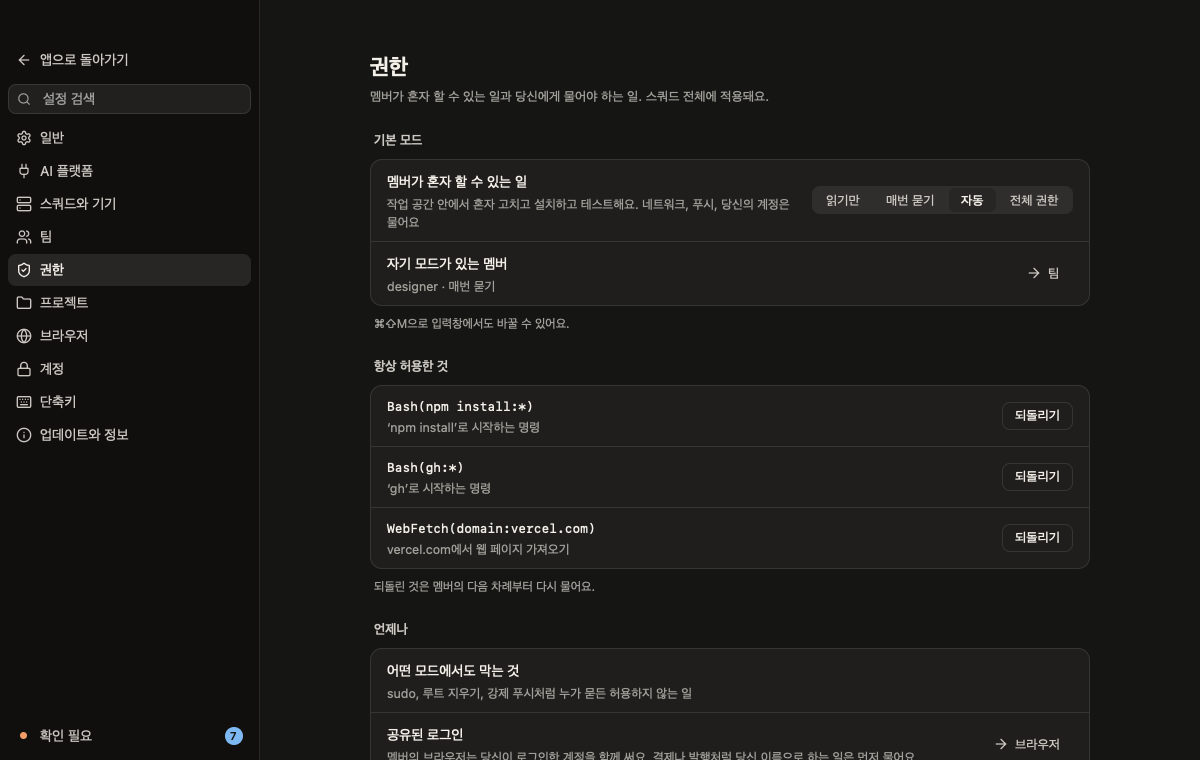
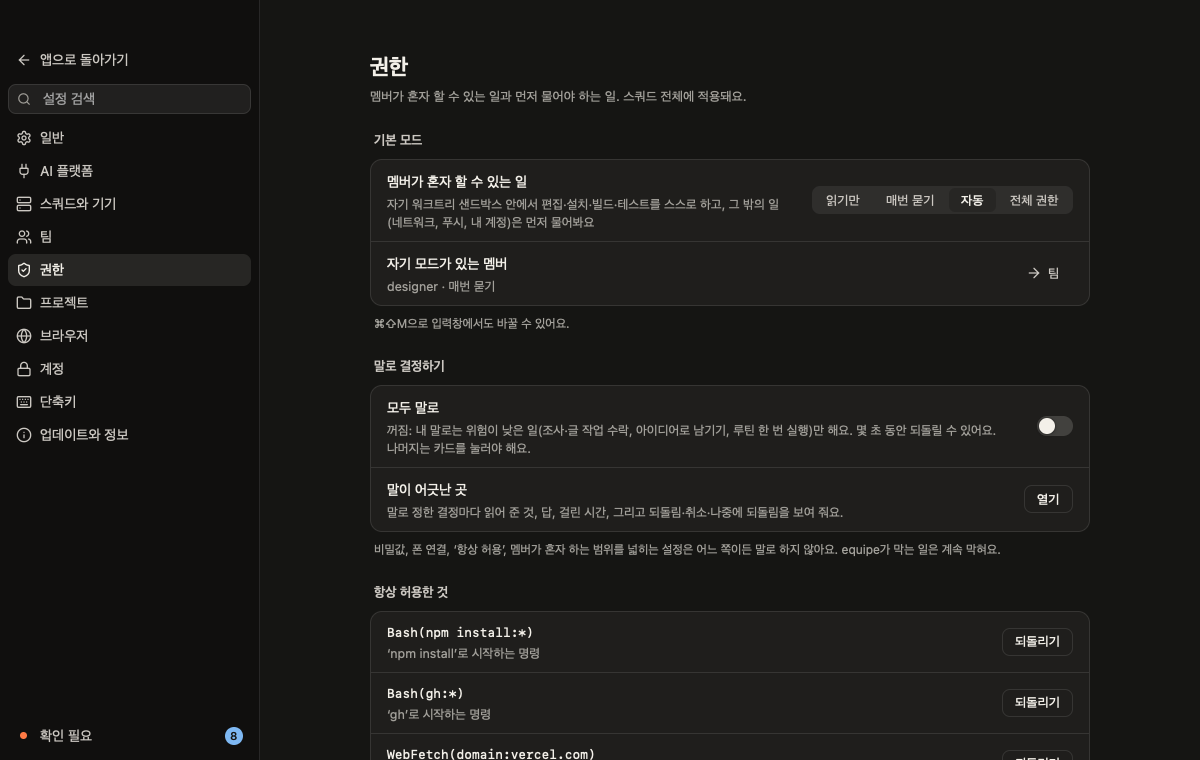
Desktop: refresh Korean copy UI map

diff --git a/design/flows/shoot-desktop.py b/design/flows/shoot-desktop.py
@@ -111,7 +111,7 @@ state("settings/engines/error", "settings:engines", {"FAKE_USAGE": "both_low"})
 state("settings/squad/default", "settings:squad")
 state("settings/team/default", "settings:team")
 state("settings/team/empty", "settings:team", {"FAKE_SIGNALS": "0"})
-state("settings/permissions/default", "settings:permissions")
+state("settings/permissions/default", "settings:permissions", lang="ko")
 state("settings/projects/default", "settings:projects")
 state("settings/browser/default", "settings:browser")
 state("settings/accounts/default", "settings:accounts;lseed")
@@ -143,7 +143,7 @@ state("overview/routines/form", "overview;rseed;rnew:weekly", wait=1200)
 # ── Panels and sheets over the work ────────────────────────────────────────
 state("tools/browser/default", "chat", {"FAKE_BROWSER": "1"}, wait=3000)
 state("tools/browser/empty", "chat;browser", {"FAKE_BROWSER": "empty"}, wait=1500)
-state("tools/browser/handover", "chat", {"FAKE_BROWSER": "handover"}, wait=3000)
+state("tools/browser/handover", "chat", {"FAKE_BROWSER": "handover"}, wait=3000, lang="ko")
 state("tools/terminal/default", "chat;term;wait:3000;tkeys:ls -la~", wait=1500)
 state("tools/document/default", "chat;doc:{ROOT}/design/guidelines.md", wait=1500)
 state("tools/subagent/default", "chat;subagent:frontend", {"FAKE_SUBAGENTS": "1"}, wait=2000)
@@ -151,6 +151,9 @@ state("tools/pair-phone/default", "pair", wait=1200)
 state("tools/pair-phone/permission", "pair", {"FAKE_PAIR": "ask"}, wait=2500)
 state("tools/pair-phone/error", "pair", {"FAKE_PAIR": "relay"}, wait=2500)
 state("tools/notifications/default", "bell:sheet", wait=600)
+
+# ── Designer studio ───────────────────────────────────────────────────────
+state("studio/designer/waiting", "studio:205", {"FAKE_STUDIO": "blocked"}, wait=2500, lang="ko", label="Waiting for the person")
 
 
 # ── Daemon disconnected ────────────────────────────────────────────────────
@@ -176,6 +179,7 @@ FLOWS = [
     ("overview", "Squad views: Overview · Roadmap · Routines · Metrics · Design system", "The sidebar's views of the whole squad: its projects side by side, the roadmap, the regular work the PM is handed, the numbers (metrics) and the design system."),
     ("settings", "Settings", "General (with privacy: anonymous usage data), AI platforms, squad and devices, team and signals, permissions, projects, browser, accounts, keys, about."),
     ("tools", "Panels and sheets", "The browser panel, terminal, a document beside the conversation, a subagent, pairing a phone, the notifications sheet."),
+    ("studio", "Designer studio", "A live view of design work: what it is waiting on, its steps, current picture, findings and timeline."),
     ("disk", "Disk", "The disk panel when space runs short, a fix's sheet and its result."),
     ("connection", "Daemon and machine", "Attaching to the daemon: the daemon gone (under a banner, or with nothing to show yet), equipe not installed, the machine chooser."),
 ]
@@ -218,6 +222,7 @@ SCREENS = {
     "tools/subagent": ("A subagent", ["views/subagent.rs"], None),
     "tools/pair-phone": ("Pair a phone", ["views/pair.rs", "pair.rs"], None),
     "tools/notifications": ("Notifications sheet", ["views/bell.rs", "notify.rs"], None),
+    "studio/designer": ("Designer studio", ["views/studio.rs", "studio.rs"], "The waiting state shows work paused for the person's answer."),
     "disk/panel": ("Disk panel", ["views/disk.rs", "disk.rs"], None),
     "disk/fix": ("A fix's sheet", ["views/disk.rs", "disk.rs"], None),
     "connection/daemon": ("Daemon", ["views/connect.rs", "daemon.rs", "views/header.rs"], None),

diff --git a/crates/desktop/examples/fake_daemon/studio.rs b/crates/desktop/examples/fake_daemon/studio.rs
@@ -13,6 +13,8 @@
 //! through `read_image`.
 //!
 //! - `waiting`: stopped at the directions, the person asked to pick one.
+//! - `blocked`: stopped after a picked direction, waiting on the person without
+//!   a more specific question (the studio's generic waiting copy).
 //! - `failing`: stopped at the check that fails the floor.
 //! - `handed`: handed in, in review.
 //! - `codex`: the same work by a Codex designer — its how-tos opened by
@@ -54,7 +56,7 @@ pub fn codex() -> bool {
 
 /// At it right now (not resting, not waiting, not handed in).
 pub fn working() -> bool {
-    !is("waiting") && !is("handed")
+    !is("waiting") && !is("blocked") && !is("handed")
 }
 
 /// The ticket's worktree, under the fake daemon's own home.
@@ -78,7 +80,7 @@ fn start() -> u64 {
 
 /// The ticket on the board.
 pub fn ticket(make: impl Fn(u32, &str, &str, &str, &str, &str) -> Ticket) -> Option<Ticket> {
-    let status = if is("waiting") {
+    let status = if is("waiting") || is("blocked") {
         "waiting"
     } else if is("handed") {
         "review"

diff --git a/crates/desktop/examples/fake_daemon.rs b/crates/desktop/examples/fake_daemon.rs
@@ -90,7 +90,7 @@
 //!
 //! `FAKE_STUDIO=1`: the designer at T-205 with references, two directions, a failing then
 //! passing check, a refused hand-in and a second look's fixes then pass, for the designer
-//! studio (`fake_daemon/studio.rs`; `waiting`, `failing`, `handed`, `codex`; `qa`: a design QA
+//! studio (`fake_daemon/studio.rs`; `waiting`, `blocked`, `failing`, `handed`, `codex`; `qa`: a design QA
 //! of T-42 on the phone, with screenshots, recordings and a report; `qa_ask`: the same while
 //! the designer asks the person something on T-60).
 //! `FAKE_CHECKS=1`: the designer's conversation checks a screen in code and has a
